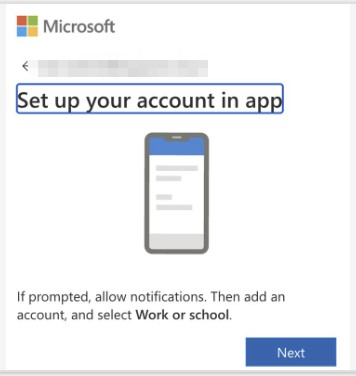
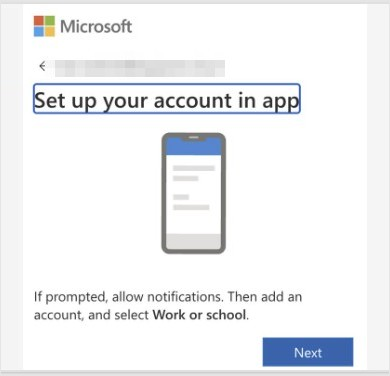
Shorter English tagline; pictures shown together are the same size (Rick, 2026-09-24)
- English tagline: "Rebuilding the C education ecosystem" — in the header,
  the order e-mail signature and its template. The English row now fits in
  one line from about 1200px, so the values and tagline step aside only
  between 901 and 1210px (was 1290).
- Pictures that sit side by side are now identical in size on disk:
  the wizard's three Next screens are all 390 × 376 (the narrower two
  widened with their own background, rings and labels moved to match), and
  case 1.3's two phone screenshots are both 520 × 689 (one repeated list
  row taken out of the account list).

Claude-Session: https://claude.ai/code/session_016YUc8HExmgeu3sANJ7M37b

diff --git a/help/teams-cases.html b/help/teams-cases.html
@@ -100,7 +100,7 @@
   .result { margin-top: 8px !important; padding: 8px 12px; background: var(--good-soft); border: 1px solid var(--good-line); border-radius: 8px; color: var(--good) !important; font-weight: 600; }
   ul.avoid { margin: 4px 0 0; padding-left: 20px; color: var(--ink-soft); font-size: .95rem; }
   ul.avoid li { margin: 3px 0; }
-  /* Centred, equal widths (Rick, 2026-09-24). */
+  /* Centred, equal widths; pictures shown together are the same size on disk (Rick, 2026-09-24). */
   .shots { display: flex; flex-wrap: wrap; justify-content: center; gap: 18px; margin: 12px 0 2px; }
   .shots figure { margin: 0; flex: 0 1 250px; min-width: 0; }
   .shots img { width: 100%; height: auto; display: block; border-radius: 12px; border: 1px solid var(--line); }
@@ -252,7 +252,7 @@
       <h3 data-en="Why">为什么</h3>
       <p data-en="The authenticator was registered on her <strong>previous iPhone</strong>, so every request went there. The authenticator on her new phone did list the account, but opening it showed only &ldquo;Connected account&rdquo; — no &ldquo;Sign-in notifications&rdquo;, no &ldquo;One-time password code&rdquo;. An entry like that cannot approve anything. The Security info page needs a verification too, so she could not add the new phone herself. The laptop had been verified before and was still signed in, so it was not affected.">她的验证器登记在<strong>以前那部 iPhone</strong> 上，请求都发往旧手机。新手机的验证器里虽然有她的账号，但点进去只有「连接的帐户」，没有「登录通知」和「一次性密码代码」，这样的账号不能用来验证。「安全信息」页也要先验证，所以她没法自己把新手机加上。笔记本以前验证过、一直保持着登录，所以没受影响。</p>
       <div class="shots">
-        <figure><img src="/help/img/case-otp-code.jpg" alt="有登录通知和一次性密码代码的账号页（账号已模糊）" data-en-alt="An account page with sign-in notifications and a one-time password code (account blurred)" width="520" height="692" loading="lazy" /><figcaption data-en="Linked: &ldquo;Sign-in notifications&rdquo; and a &ldquo;One-time password code&rdquo;. An entry showing only &ldquo;Connected account&rdquo; is not linked.">绑好的样子：有「登录通知」和「一次性密码代码」。只有「连接的帐户」的，就是没绑好。</figcaption></figure>
+        <figure><img src="/help/img/case-otp-code.jpg" alt="有登录通知和一次性密码代码的账号页（账号已模糊）" data-en-alt="An account page with sign-in notifications and a one-time password code (account blurred)" width="520" height="689" loading="lazy" /><figcaption data-en="Linked: &ldquo;Sign-in notifications&rdquo; and a &ldquo;One-time password code&rdquo;. An entry showing only &ldquo;Connected account&rdquo; is not linked.">绑好的样子：有「登录通知」和「一次性密码代码」。只有「连接的帐户」的，就是没绑好。</figcaption></figure>
       </div>
       <h3 data-en="How to solve it">怎么解决</h3>
       <ol class="fix">
@@ -297,8 +297,8 @@
         <li><span class="role admin" data-en="Admin">管理员</span><span data-en="<strong>XR gone:</strong> the administrator deletes that device; the family opens the <a href='/help/teams-setup.html'>setup wizard</a>, chooses &ldquo;I have used Teams before, and now it asks me to verify&rdquo; and follows it to install the authenticator and link the account — one device shows the QR code, the other scans."><strong>XR 不在了：</strong>管理员在后台删除这台设备；家长打开<a href="/help/teams-setup.html">设置向导</a>，选「我曾经登录过 Teams，但被要求做身份验证」，按向导完成验证器的安装和账户关联：一台设备显示二维码，另一台扫。</span></li>
       </ol>
       <div class="shots">
-        <figure><img src="/help/img/case-account-list.jpg" alt="验证器的账号列表（账号已模糊）" data-en-alt="The authenticator account list (accounts blurred)" width="520" height="800" loading="lazy" /><figcaption data-en="Tap your school account.">点进自己的学校账号。</figcaption></figure>
-        <figure><img src="/help/img/case-otp-code.jpg" alt="账号页里的一次性密码代码（账号已模糊）" data-en-alt="The one-time password code on the account page (account blurred)" width="520" height="692" loading="lazy" /><figcaption data-en="The six-digit code changes every 30 seconds.">6 位代码每 30 秒换一次。</figcaption></figure>
+        <figure><img src="/help/img/case-account-list.jpg" alt="验证器的账号列表（账号已模糊）" data-en-alt="The authenticator account list (accounts blurred)" width="520" height="689" loading="lazy" /><figcaption data-en="Tap your school account.">点进自己的学校账号。</figcaption></figure>
+        <figure><img src="/help/img/case-otp-code.jpg" alt="账号页里的一次性密码代码（账号已模糊）" data-en-alt="The one-time password code on the account page (account blurred)" width="520" height="689" loading="lazy" /><figcaption data-en="The six-digit code changes every 30 seconds.">6 位代码每 30 秒换一次。</figcaption></figure>
       </div>
       <h3 data-en="Next time">以后注意</h3>
       <ul class="avoid">

diff --git a/help/teams-setup.html b/help/teams-setup.html
@@ -274,7 +274,8 @@
   .shot figcaption { font-size: .78rem; color: var(--ink-faint); margin-top: 5px; text-align: center; }
   /* Pictures sit centred in the column; a run of screens that belong together
      (the three Next screens) sits side by side in equal columns, one above the
-     other on a phone (Rick, 2026-09-24). */
+     other on a phone (Rick, 2026-09-24). The three are the same size on disk
+     (390 × 376), so the columns hold identical pictures. */
   .shot .pic { margin-inline: auto; }
   .shot-row { display: grid; grid-template-columns: repeat(auto-fit, minmax(190px, 1fr)); gap: 14px; align-items: start; margin: 10px 0 4px; }
   .shot-row .shot { margin: 0; }
@@ -981,8 +982,8 @@
         '<p>' + T('换一个：长度 8 位以上，同时含大写字母、小写字母、数字，不要包含您的名字或账号。第二、三格必须完全一样。', 'Pick another: 8 characters or more with an upper-case letter, a lower-case letter and a digit, not containing your name or account. The second and third boxes must match.') + '</p>');
   }
   var keepSecureShot = function () { return shot('pc-keep-secure.jpg', "Let's keep your account secure", T('第一屏：让我们保护你的帐户安全', 'Screen 1 of 3 — just select Next'), '64,84,31,15.4', T('38,34.5,r|让我们保护你的帐户安全;62,91.8,l|下一步', '62,91.8,l|select Next'), 390); };
-  var installAuthShot = function () { return shot('pc-install-auth.jpg', 'Install Microsoft Authenticator', T('第二屏：这里不用装任何东西，直接下一步', 'Screen 2 of 3 — nothing to install here, just Next'), '62,88.5,36,10.5', T('50,42,c|已经装好，直接下一步;62,95,l|下一步', '50,42,c|already installed;62,95,l|select Next'), 298); };
-  var setupInAppShot = function () { return shot('pc-setup-in-app.jpg', 'Set up your account in app', T('第三屏：在应用中设置你的帐户', 'Screen 3 of 3'), '64.6,87,32,12.5', T('50,45,c|在应用中设置你的帐户;62,93.9,l|下一步', '62,93.9,l|select Next'), 356); };
+  var installAuthShot = function () { return shot('pc-install-auth.jpg', 'Install Microsoft Authenticator', T('第二屏：这里不用装任何东西，直接下一步', 'Screen 2 of 3 — nothing to install here, just Next'), '59.2,88.5,27.5,10.5', T('50,42,c|已经装好，直接下一步;59.2,95,l|下一步', '50,42,c|already installed;59.2,95,l|select Next'), 390); };
+  var setupInAppShot = function () { return shot('pc-setup-in-app.jpg', 'Set up your account in app', T('第三屏：在应用中设置你的帐户', 'Screen 3 of 3'), '63.3,87,29.2,12.5', T('50,45,c|在应用中设置你的帐户;61.0,93.9,l|下一步', '61.0,93.9,l|select Next'), 390); };
   var addAccountShot = function (cap) { return shot('ph-add-account.jpg', T('验证器 Add account：选 Work or school account', 'Authenticator Add account: choose Work or school account'), cap, '1,62,98,21', T('50,72,c|选这一条', '50,72,c|choose this')); };
   var qrShot = function (cap) { return shot('pc-scan-qr.jpg', T('Scan the QR code 页面', 'The Scan the QR code page'), cap, '26,26,48,38', T('97,45,l|扫这个码', '97,45,l|scan this')); };
   var tryShot = function (cap, tag) { return shot('pc-try-it-out.jpg', "Let's try it out", cap, '40.9,66.3,17,10.6', tag); };

diff --git a/assets/site-header.css b/assets/site-header.css
@@ -176,13 +176,13 @@ a.menu-item:hover { background: #eef1f6; }
   .menu-panel .menu-item { font-size: 0.86em; }
 }
 /* Between that and the width the whole row needs (about 1065px in Chinese
-   since 首页 joined the menus, 1280px in English), the values and the tagline
+   since 首页 joined the menus, 1200px in English), the values and the tagline
    step aside so the menus keep one line; the mark and 蜂巢 stay, as on a
    phone. They come back as soon as there is room. */
 @media (min-width: 901px) and (max-width: 1080px) {
   .brand-tag, .brand-values { display: none; }
 }
-@media (min-width: 901px) and (max-width: 1290px) {
+@media (min-width: 901px) and (max-width: 1210px) {
   html[lang="en"] .brand-tag, html[lang="en"] .brand-values { display: none; }
 }
 /* On a computer the mark and 蜂巢 never give way to the menus. */

diff --git a/api/shared/messages.js b/api/shared/messages.js
@@ -93,7 +93,7 @@ const DEFAULT_TEMPLATES = {
           "your order number and we will follow up for you.",
         "",
         "Hive",
-        "Rebuilding the C-education ecosystem with online resources",
+        "Rebuilding the C education ecosystem",
         "https://www.fengchao.life",
       ].join("\n"),
     },

diff --git a/assets/i18n.js b/assets/i18n.js
@@ -241,7 +241,7 @@ window.I18N = {
     },
   },
   en: {
-    brandTag: "Rebuilding the C-education ecosystem with online resources",
+    brandTag: "Rebuilding the C education ecosystem",
     brandValues: ["Open", "Autonomous", "Collaborative"],
     menuLabel: "Menu",
     comingSoon: "Coming soon",

diff --git a/docs/message-templates.md b/docs/message-templates.md
@@ -139,7 +139,7 @@ The institution offering these courses ({{schoolNames}}) will contact you direct
 If you have not heard from anyone within {{replyDays}} working days, reply to this email with your order number and we will follow up for you.
 
 Hive
-Rebuilding the C-education ecosystem with online resources
+Rebuilding the C education ecosystem
 https://www.fengchao.life
 ```
 
